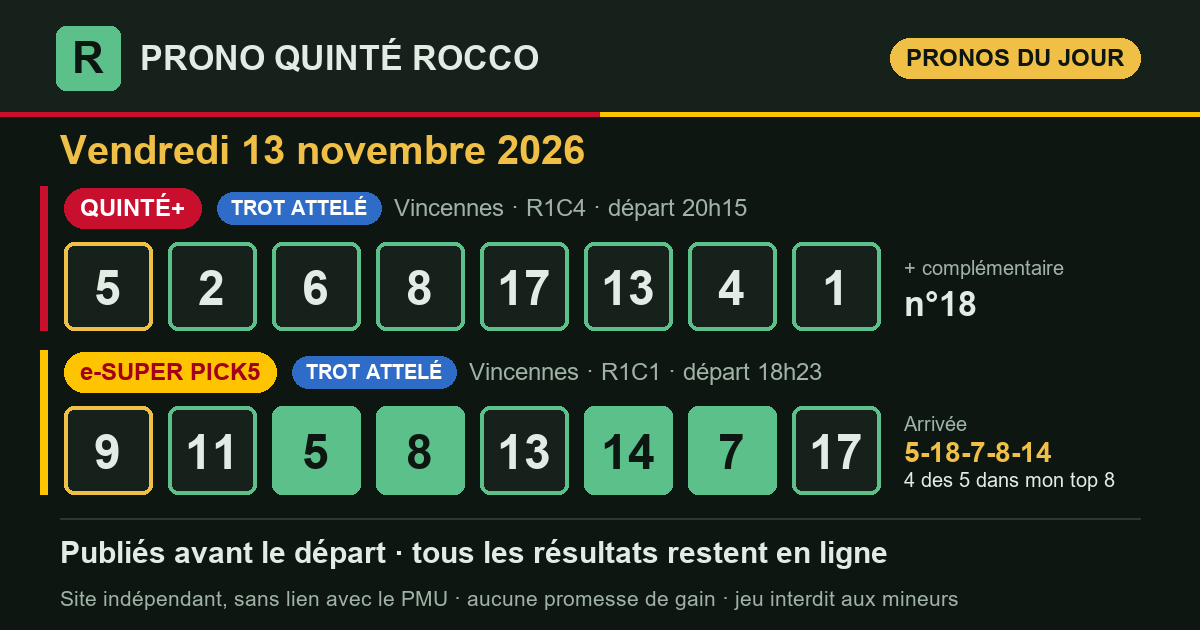
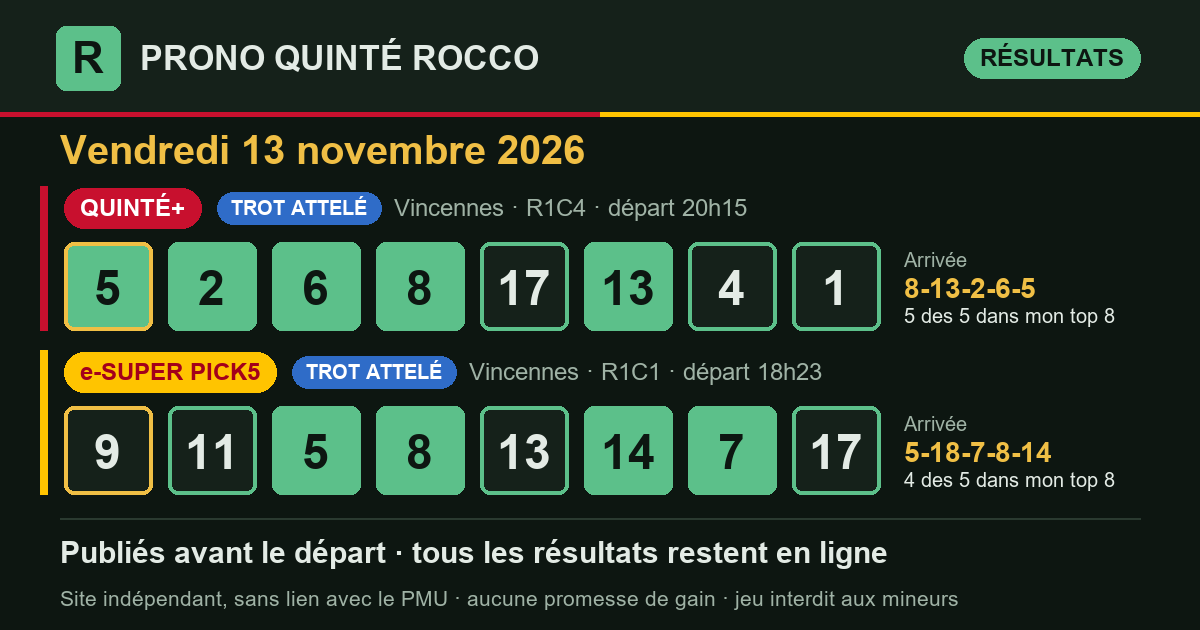
Résultat du Quinté+ 2026-11-13 Vincennes R1C4 — publié le 13/11/2026 20:31 (heure de Paris)

diff --git a/index.html b/index.html
@@ -16,7 +16,7 @@
 <meta property="og:title" content="Pronostics Quinté+ et Super Pick 5 du vendredi 13 novembre 2026 — Prono Quinté Rocco">
 <meta property="og:description" content="Pronostics Quinté+ (Grand Prix du Vendredi 13 (prix Mizar)) et Super Pick 5 (Prix Campanus) du jour : mes top 8, publiés avant le départ, puis tous les résultats et le rendement réel.">
 <meta property="og:url" content="https://prono-quinte-rocco.fr/">
-<meta property="og:image" content="https://prono-quinte-rocco.fr/partage/jour-2026-11-13.png?v=4745406e">
+<meta property="og:image" content="https://prono-quinte-rocco.fr/partage/jour-2026-11-13.png?v=85c597a8">
 <meta property="og:image:type" content="image/png">
 <meta property="og:image:width" content="1200">
 <meta property="og:image:height" content="630">
@@ -32,7 +32,7 @@
 <div class="jeux j-quinte" role="navigation" aria-label="Choix du jeu"><a class="jeu jeu-quinte actif" href="index.html" aria-current="true">Quinté+</a><a class="jeu jeu-sp5" href="superpick5.html">e-Super Pick5<small>entre 17 h et 19 h</small></a></div>
 <main>
 <section class="une" aria-labelledby="t-jour">
-  <p class="surtitre">Quinté+ du jour</p>
+  <p class="surtitre">Dernier Quinté+</p>
   <h1 id="t-jour">Le prono du Quinté+, résultats compris</h1>
   <p class="chapo">Chaque matin, j'étudie les partants du Quinté+ avec le logiciel que
   j'ai conçu, selon ma propre méthode, qu'une intelligence artificielle m'aide à
@@ -43,10 +43,13 @@
   <p class="meta">Grand Prix du Vendredi 13 (prix Mizar) · Vincennes · <strong>R1C4</strong> · 18 partants · <span class="lisib">lisibilité <span class="note" aria-label="note 2 sur 5" title="lisibilité 2/5 : course ouverte"><i class="on"></i><i class="on"></i><i class=""></i><i class=""></i><i class=""></i></span> 2/5</span></p>
   <div class="zone-prono">
     <h3 class="zone-titre">Mon top 8</h3>
-    <ol class="partants" aria-label="Mon top 8"><li><span class="rang">1<sup>er</sup></span><span class="tapis ">5</span><span class="nom">KING LOOK</span></li><li><span class="rang">2<sup>e</sup></span><span class="tapis ">2</span><span class="nom">KATIA DHELPA</span></li><li><span class="rang">3<sup>e</sup></span><span class="tapis ">6</span><span class="nom">EMINENT KRONOS</span></li><li><span class="rang">4<sup>e</sup></span><span class="tapis ">8</span><span class="nom">SAVASTANO</span></li><li><span class="rang">5<sup>e</sup></span><span class="tapis ">17</span><span class="nom">ELEONORA GRIF</span></li><li><span class="rang">6<sup>e</sup></span><span class="tapis ">13</span><span class="nom">COSMEA</span></li><li><span class="rang">7<sup>e</sup></span><span class="tapis ">4</span><span class="nom">KINGSTON DE BLARY</span></li><li><span class="rang">8<sup>e</sup></span><span class="tapis ">1</span><span class="nom">KAISER DES GRANGES</span></li><li><span class="rang">compl.</span><span class="tapis creux">18</span><span class="nom">PURE STEEL</span></li></ol>
+    <ol class="partants" aria-label="Mon top 8"><li><span class="rang">1<sup>er</sup></span><span class="tapis plein">5</span><span class="nom">KING LOOK</span></li><li><span class="rang">2<sup>e</sup></span><span class="tapis plein">2</span><span class="nom">KATIA DHELPA</span></li><li><span class="rang">3<sup>e</sup></span><span class="tapis plein">6</span><span class="nom">EMINENT KRONOS</span></li><li><span class="rang">4<sup>e</sup></span><span class="tapis plein">8</span><span class="nom">SAVASTANO</span></li><li><span class="rang">5<sup>e</sup></span><span class="tapis ">17</span><span class="nom">ELEONORA GRIF</span></li><li><span class="rang">6<sup>e</sup></span><span class="tapis plein">13</span><span class="nom">COSMEA</span></li><li><span class="rang">7<sup>e</sup></span><span class="tapis ">4</span><span class="nom">KINGSTON DE BLARY</span></li><li><span class="rang">8<sup>e</sup></span><span class="tapis ">1</span><span class="nom">KAISER DES GRANGES</span></li><li><span class="rang">compl.</span><span class="tapis creux">18</span><span class="nom">PURE STEEL</span></li></ol>
     <div class="pied-carte"><span>Analysé le 13/11 à 10:04 · en ligne le 13/11 à 10:05 · départ à 20:15 (heure de Paris)</span><span><a href="quinte/2026-11-13.html">Détail de la course</a></span></div>
   </div>
-  <div class="zone-arrivee attente"><p>L'arrivée officielle s'affichera ici après la course.</p></div>
+  <div class="zone-arrivee">
+    <div class="zone-tete"><h3 class="zone-titre">Arrivée officielle</h3><span class="etat top">5 des 5 premiers dans mon top 8</span><span class="etat non">mon 1er (n°5) : non placé</span></div>
+    <ol class="partants" aria-label="Arrivée officielle"><li><span class="rang">1<sup>er</sup></span><span class="tapis plein">8</span><span class="nom">SAVASTANO</span></li><li><span class="rang">2<sup>e</sup></span><span class="tapis plein">13</span><span class="nom">COSMEA</span></li><li><span class="rang">3<sup>e</sup></span><span class="tapis plein">2</span><span class="nom">KATIA DHELPA</span></li><li><span class="rang">4<sup>e</sup></span><span class="tapis plein">6</span><span class="nom">EMINENT KRONOS</span></li><li><span class="rang">5<sup>e</sup></span><span class="tapis plein">5</span><span class="nom">KING LOOK</span></li></ol>
+  </div>
 </article>
 </section>
 <section class="suivre" aria-label="Suivre et soutenir">
@@ -76,7 +79,7 @@
 </section>
 <section class="bilan" aria-labelledby="t-bilan">
   <h2 id="t-bilan">Mon bilan depuis le 8 septembre 2026</h2>
-  <div class="tableau chiffres"><div class="case"><span class="gros ">72 %</span><span class="lib">des arrivants trouvés dans mon top 8</span><span class="ref">un top 8 tiré au hasard : 51 %</span></div><div class="case"><span class="gros ">88 %</span><span class="lib">des gagnants présents dans mon top 8</span><span class="ref"></span></div><div class="case"><span class="gros ">51 %</span><span class="lib">mon 1er placé</span><span class="ref">sur 65 Quintés</span></div><div class="case"><span class="gros perte">0,94 €</span><span class="lib">rendus pour 1 € joué placé sur mon 1er</span><span class="ref">rapports officiels PMU</span></div><div class="case"><span class="gros perte">0,43 €</span><span class="lib">rendus pour 1 € joué en Quinté+ combiné sur mon top 8</span><span class="ref">56 combinaisons, rapports PMU.fr, sur 65 Quintés</span></div></div>
+  <div class="tableau chiffres"><div class="case"><span class="gros ">73 %</span><span class="lib">des arrivants trouvés dans mon top 8</span><span class="ref">un top 8 tiré au hasard : 51 %</span></div><div class="case"><span class="gros ">88 %</span><span class="lib">des gagnants présents dans mon top 8</span><span class="ref"></span></div><div class="case"><span class="gros ">50 %</span><span class="lib">mon 1er placé</span><span class="ref">sur 66 Quintés</span></div><div class="case"><span class="gros perte">0,92 €</span><span class="lib">rendus pour 1 € joué placé sur mon 1er</span><span class="ref">rapports officiels PMU</span></div><div class="case"><span class="gros perte">0,43 €</span><span class="lib">rendus pour 1 € joué en Quinté+ combiné sur mon top 8</span><span class="ref">56 combinaisons, rapports PMU.fr, sur 66 Quintés</span></div></div>
   <p class="avertissement">Moins de 1 € rendu pour 1 € joué : suivre mon prono à la lettre fait <strong>perdre de l'argent</strong> sur cette période. Il sert à analyser une course, pas à promettre un gain.</p>
 </section>
 </main>

diff --git a/partants.html b/partants.html
@@ -33,92 +33,92 @@
     <p class="fiche-date">Vendredi 13 novembre 2026</p>
     <div class="fiche-rc"><span class="pastille" title="Réunion 1">R1</span><span class="pastille" title="Course 4">C4</span><span class="fiche-nom">Grand Prix du Vendredi 13 (prix Mizar)</span></div>
     <p class="meta"><span class="type t-attele">Trot attelé</span>Vincennes · 2 100 m · 18 partants</p>
-    <p class="fiche-depart">Départ <b>20:15</b> <span>heure de Paris</span></p>
+    <p class="fiche-depart">Départ <b>20:17</b> <span>heure de Paris</span></p>
   </div>
   <p class="surtitre">Les pronostics ailleurs sur le web</p>
-  <div class="liens"><a class="lien-ext" href="https://www.turfoo.fr/programmes-courses/261113/reunion1-vincennes/course4-grand-prix-du-vendredi-13-prix-mizar/pronostics-presse/" rel="noopener" target="_blank"><b>Les pronostics de la presse →</b><span>sur Turfoo (site extérieur)</span></a><a class="lien-ext" href="https://www.geny.com/programme/2026-11-13" rel="noopener" target="_blank"><b>Partants et pronostics →</b><span>programme du jour sur Geny (site extérieur)</span></a></div>
+  <div class="liens"><a class="lien-ext" href="https://www.turfoo.fr/programmes-courses/261113/" rel="noopener" target="_blank"><b>Les pronostics de la presse →</b><span>sur Turfoo (site extérieur)</span></a><a class="lien-ext" href="https://www.geny.com/programme/2026-11-13" rel="noopener" target="_blank"><b>Partants et pronostics →</b><span>programme du jour sur Geny (site extérieur)</span></a></div>
   <div class="liste-boite"><table class="liste-partants">
     <thead><tr><th>N°</th><th>Cheval</th><th class="cote"><span class="long">Cote du matin</span><span class="court">Cote</span></th>
     <th class="ia"><span class="long">Mon prono</span><span class="court">Prono</span></th></tr></thead>
     <tbody><tr>
   <td><span class="tapis petit">1</span></td>
   <td><span class="cheval">KAISER DES GRANGES</span><span class="sous">P.PH. PLOQUIN · Ch. NICOLE</span></td>
-  <td class="cote num">43,0</td>
+  <td class="cote num">55,0</td>
   <td class="ia"><span class="etat place">8<sup>e</sup></span></td>
 </tr><tr>
   <td><span class="tapis petit">2</span></td>
   <td><span class="cheval">KATIA DHELPA</span><span class="sous">B. ROCHARD · C. BUHIGNE</span></td>
-  <td class="cote num">7,1</td>
+  <td class="cote num">7,0</td>
   <td class="ia"><span class="etat place">2<sup>e</sup></span></td>
 </tr><tr>
   <td><span class="tapis petit">3</span></td>
   <td><span class="cheval">KAZY MERITE</span><span class="sous">A. COLLETTE · A. BUISSON</span></td>
-  <td class="cote num">32,0</td>
+  <td class="cote num">38,0</td>
   <td class="ia">—</td>
 </tr><tr>
   <td><span class="tapis petit">4</span></td>
   <td><span class="cheval">KINGSTON DE BLARY</span><span class="sous">D. THOMAIN · CL. THOMAIN</span></td>
-  <td class="cote num">22,0</td>
+  <td class="cote num">21,0</td>
   <td class="ia"><span class="etat place">7<sup>e</sup></span></td>
 </tr><tr>
   <td><span class="tapis petit">5</span></td>
   <td><span class="cheval">KING LOOK</span><span class="sous">THEO DUVALDESTIN · TH. DUVALDESTIN</span></td>
-  <td class="cote num">4,0</td>
+  <td class="cote num">3,6</td>
   <td class="ia"><span class="etat place">1<sup>er</sup></span></td>
 </tr><tr>
   <td><span class="tapis petit">6</span></td>
   <td><span class="cheval">EMINENT KRONOS</span><span class="sous">J. UNTERSTEINER · J. UNTERSTEINER</span></td>
-  <td class="cote num">6,5</td>
+  <td class="cote num">5,9</td>
   <td class="ia"><span class="etat place">3<sup>e</sup></span></td>
 </tr><tr>
   <td><span class="tapis petit">7</span></td>
   <td><span class="cheval">KELLY JANE</span><span class="sous">J. DUBOIS · J. DUBOIS</span></td>
-  <td class="cote num">31,0</td>
+  <td class="cote num">39,0</td>
   <td class="ia">—</td>
 </tr><tr>
   <td><span class="tapis petit">8</span></td>
   <td><span class="cheval">SAVASTANO</span><span class="sous">F. NIVARD · A. KOLGJINI</span></td>
-  <td class="cote num">6,9</td>
+  <td class="cote num">7,0</td>
   <td class="ia"><span class="etat place">4<sup>e</sup></span></td>
 </tr><tr>
   <td><span class="tapis petit">9</span></td>
   <td><span class="cheval">KOOL AND THE GANG</span><span class="sous">N. BAZIRE · V. MARTENS</span></td>
-  <td class="cote num">43,0</td>
+  <td class="cote num">66,0</td>
   <td class="ia">—</td>
 </tr><tr>
   <td><span class="tapis petit">10</span></td>
   <td><span class="cheval">KHARTOUM DE LA FYE</span><span class="sous">M. IONESCU · R. DERIEUX</span></td>
-  <td class="cote num">156,0</td>
+  <td class="cote num">151,0</td>
   <td class="ia">—</td>
 </tr><tr>
   <td><span class="tapis petit">11</span></td>
   <td><span class="cheval">I CAN WIN GARDENIA</span><span class="sous">P.Y. VERVA · J. LORENTZEN</span></td>
-  <td class="cote num">44,0</td>
+  <td class="cote num">50,0</td>
   <td class="ia">—</td>
 </tr><tr>
   <td><span class="tapis petit">12</span></td>
   <td><span class="cheval">QUINTUS TOOMA</span><span class="sous">A. ANDRE · Vitale CIOTOLA</span></td>
-  <td class="cote num">49,0</td>
+  <td class="cote num">65,0</td>
   <td class="ia">—</td>
 </tr><tr>
   <td><span class="tapis petit">13</span></td>
   <td><span class="cheval">COSMEA</span><span class="sous">M. ABRIVARD · W. NIMCZYK</span></td>
-  <td class="cote num">8,6</td>
+  <td class="cote num">9,4</td>
   <td class="ia"><span class="etat place">6<sup>e</sup></span></td>
 </tr><tr>
   <td><span class="tapis petit">14</span></td>
   <td><span class="cheval">KOQUERY DU BUISSON</span><span class="sous">R. LAMY · TH. RAFFEGEAU</span></td>
-  <td class="cote num">117,0</td>
+  <td class="cote num">134,0</td>
   <td class="ia">—</td>
 </tr><tr>
   <td><span class="tapis petit">15</span></td>
   <td><span class="cheval">JUBII VANG</span><span class="sous">G. GELORMINI · CH. ERIKSSON</span></td>
-  <td class="cote num">38,0</td>
+  <td class="cote num">43,0</td>
   <td class="ia">—</td>
 </tr><tr>
   <td><span class="tapis petit">16</span></td>
   <td><span class="cheval">NO TALKING YOU</span><span class="sous">F. OUVRIE · L. CHARBONNEL</span></td>
-  <td class="cote num">94,0</td>
+  <td class="cote num">101,0</td>
   <td class="ia">—</td>
 </tr><tr>
   <td><span class="tapis petit">17</span></td>
@@ -128,12 +128,12 @@
 </tr><tr>
   <td><span class="tapis petit">18</span></td>
   <td><span class="cheval">PURE STEEL</span><span class="sous">A. ABRIVARD · H.E. BONDO</span></td>
-  <td class="cote num">43,0</td>
+  <td class="cote num">41,0</td>
   <td class="ia"><span class="etat place">compl.</span></td>
 </tr></tbody>
   </table></div>
   <p class="meta">La colonne « Mon prono » donne le rang de chaque cheval dans mon top 8, tel qu&#x27;il est publié sur ce site. Sous chaque cheval : driver · entraîneur. Partants et cotes : programme
-  officiel du PMU, lu le 13/11 à 18:39 (heure de Paris). NP = non-partant.</p>
+  officiel du PMU, lu le 13/11 à 20:31 (heure de Paris). NP = non-partant.</p>
 </section>
 </main>
 <footer class="pied">

diff --git a/quinte/2026-11-13.html b/quinte/2026-11-13.html
@@ -16,7 +16,7 @@
 <meta property="og:title" content="Pronostic Quinté+ du vendredi 13 novembre 2026 : Grand Prix du Vendredi 13 (prix Mizar) à Vincennes — Prono Quinté Rocco">
 <meta property="og:description" content="Prono Quinté+ du vendredi 13 novembre 2026 (Grand Prix du Vendredi 13 (prix Mizar), Vincennes) : mon top 8, l&#x27;arrivée officielle et les rapports PMU.fr.">
 <meta property="og:url" content="https://prono-quinte-rocco.fr/quinte/2026-11-13.html">
-<meta property="og:image" content="https://prono-quinte-rocco.fr/partage/2026-11-13.png?v=e86b5a9f">
+<meta property="og:image" content="https://prono-quinte-rocco.fr/partage/2026-11-13.png?v=451be2f3">
 <meta property="og:image:type" content="image/png">
 <meta property="og:image:width" content="1200">
 <meta property="og:image:height" content="630">
@@ -36,15 +36,25 @@
   <h1>Pronostic Quinté+ du vendredi 13 novembre 2026</h1>
   <p class="chapo">Grand Prix du Vendredi 13 (prix Mizar) · Vincennes · R1C4 · Attelé · 18 partants</p>
   <article class="carte-course">
-  <div class="tete"><h2>Mon prono</h2><span class="type t-attele">Trot attelé</span></div>
+  <div class="tete"><h2>Mon prono et l&#x27;arrivée officielle</h2><span class="type t-attele">Trot attelé</span></div>
   <p class="meta">Grand Prix du Vendredi 13 (prix Mizar) · Vincennes · <strong>R1C4</strong> · 18 partants · <span class="lisib">lisibilité <span class="note" aria-label="note 2 sur 5" title="lisibilité 2/5 : course ouverte"><i class="on"></i><i class="on"></i><i class=""></i><i class=""></i><i class=""></i></span> 2/5</span></p>
   <div class="zone-prono">
     <h3 class="zone-titre">Mon top 8</h3>
-    <ol class="partants" aria-label="Mon top 8"><li><span class="rang">1<sup>er</sup></span><span class="tapis ">5</span><span class="nom">KING LOOK</span></li><li><span class="rang">2<sup>e</sup></span><span class="tapis ">2</span><span class="nom">KATIA DHELPA</span></li><li><span class="rang">3<sup>e</sup></span><span class="tapis ">6</span><span class="nom">EMINENT KRONOS</span></li><li><span class="rang">4<sup>e</sup></span><span class="tapis ">8</span><span class="nom">SAVASTANO</span></li><li><span class="rang">5<sup>e</sup></span><span class="tapis ">17</span><span class="nom">ELEONORA GRIF</span></li><li><span class="rang">6<sup>e</sup></span><span class="tapis ">13</span><span class="nom">COSMEA</span></li><li><span class="rang">7<sup>e</sup></span><span class="tapis ">4</span><span class="nom">KINGSTON DE BLARY</span></li><li><span class="rang">8<sup>e</sup></span><span class="tapis ">1</span><span class="nom">KAISER DES GRANGES</span></li><li><span class="rang">compl.</span><span class="tapis creux">18</span><span class="nom">PURE STEEL</span></li></ol>
+    <ol class="partants" aria-label="Mon top 8"><li><span class="rang">1<sup>er</sup></span><span class="tapis plein">5</span><span class="nom">KING LOOK</span></li><li><span class="rang">2<sup>e</sup></span><span class="tapis plein">2</span><span class="nom">KATIA DHELPA</span></li><li><span class="rang">3<sup>e</sup></span><span class="tapis plein">6</span><span class="nom">EMINENT KRONOS</span></li><li><span class="rang">4<sup>e</sup></span><span class="tapis plein">8</span><span class="nom">SAVASTANO</span></li><li><span class="rang">5<sup>e</sup></span><span class="tapis ">17</span><span class="nom">ELEONORA GRIF</span></li><li><span class="rang">6<sup>e</sup></span><span class="tapis plein">13</span><span class="nom">COSMEA</span></li><li><span class="rang">7<sup>e</sup></span><span class="tapis ">4</span><span class="nom">KINGSTON DE BLARY</span></li><li><span class="rang">8<sup>e</sup></span><span class="tapis ">1</span><span class="nom">KAISER DES GRANGES</span></li><li><span class="rang">compl.</span><span class="tapis creux">18</span><span class="nom">PURE STEEL</span></li></ol>
     <div class="pied-carte"><span>Analysé le 13/11 à 10:04 · en ligne le 13/11 à 10:05 · départ à 20:15 (heure de Paris)</span><span></span></div>
   </div>
-  <div class="zone-arrivee attente"><p>L'arrivée officielle s'affichera ici après la course.</p></div>
+  <div class="zone-arrivee">
+    <div class="zone-tete"><h3 class="zone-titre">Arrivée officielle</h3><span class="etat top">5 des 5 premiers dans mon top 8</span><span class="etat non">mon 1er (n°5) : non placé</span></div>
+    <ol class="partants" aria-label="Arrivée officielle"><li><span class="rang">1<sup>er</sup></span><span class="tapis plein">8</span><span class="nom">SAVASTANO</span></li><li><span class="rang">2<sup>e</sup></span><span class="tapis plein">13</span><span class="nom">COSMEA</span></li><li><span class="rang">3<sup>e</sup></span><span class="tapis plein">2</span><span class="nom">KATIA DHELPA</span></li><li><span class="rang">4<sup>e</sup></span><span class="tapis plein">6</span><span class="nom">EMINENT KRONOS</span></li><li><span class="rang">5<sup>e</sup></span><span class="tapis plein">5</span><span class="nom">KING LOOK</span></li></ol>
+  </div>
 </article>
+<section class="carte-course rapports" aria-labelledby="t-rap">
+  <div class="tete"><h2 id="t-rap">Les rapports</h2></div>
+  <div class="deux">
+    <div><h3>Ce qu'aurait rendu mon prono</h3><dl class="kv"><dt>1 € placé sur mon 1er (n°5)</dt><dd class="perte">0,00 €</dd><dt>1 € gagnant sur mon 1er</dt><dd class="perte">0,00 €</dd><dt>Quinté+ combiné sur mon top 8 (mise 112 €)</dt><dd class="partiel"><span class="etat partiel somme">46,40 €</span></dd><dd class="dont">dont Désordre × 1, Bonus 4sur5 × 15, Bonus 3 × 3</dd></dl></div>
+    <div><h3>Rapports officiels</h3><dl class="kv"><dt>e-Quinté+ Ordre (2 €)</dt><dd>831,60 €</dd><dt>e-Quinté+ Désordre (2 €)</dt><dd>6,80 €</dd><dt>e-Bonus 4sur5 (2 €)</dt><dd>2,20 €</dd><dt>e-Bonus 3 (2 €)</dt><dd>2,20 €</dd></dl></div>
+  </div>
+</section>
 </section>
 </main>
 <footer class="pied">

diff --git a/resultats.html b/resultats.html
@@ -49,12 +49,12 @@
     <th colspan="4" class="res g-res">Le résultat officiel</th></tr>
     <tr><th>Date</th><th>Course</th><th>Top 8</th><th class="c-lis">Lisibilité</th><th class="res c-arr">Arrivée</th>
     <th class="res">Trouvés</th><th class="res">Mon 1er</th><th class="res mont">Quinté+ top 8<br><small>(mise 112 €)</small></th></tr></thead>
-    <tbody><tr class="attente">
+    <tbody><tr>
   <td class="c-date"><a href="quinte/2026-11-13.html">13/11</a></td>
   <td class="c-course">Vincennes<br><span class="meta">R1C4</span><span class="type t-attele petit">Attelé</span></td>
-  <td class="c-top8" data-label="Mon top 8"><div class="rangee"><span class="tapis petit">5</span><span class="tapis petit">2</span><span class="tapis petit">6</span><span class="tapis petit">8</span><span class="tapis petit">17</span><span class="tapis petit">13</span><span class="tapis petit">4</span><span class="tapis petit">1</span></div></td>
+  <td class="c-top8" data-label="Mon top 8"><div class="rangee"><span class="tapis plein petit">5</span><span class="tapis plein petit">2</span><span class="tapis plein petit">6</span><span class="tapis plein petit">8</span><span class="tapis petit">17</span><span class="tapis plein petit">13</span><span class="tapis petit">4</span><span class="tapis petit">1</span></div></td>
   <td class="c-lis" data-label="Lisibilité"><span class="note" aria-label="note 2 sur 5" title="lisibilité 2/5 : course ouverte"><i class="on"></i><i class="on"></i><i class=""></i><i class=""></i><i class=""></i></span> 2/5</td>
-  <td class="res c-arr" data-label="Arrivée"><span class="etat attente">en attente</span></td><td class="res num c-trouves" data-label="Trouvés">—</td><td class="res c-premier" data-label="Mon 1er"><span class="etat attente">—</span></td><td class="res mont c-mont" data-label="Quinté+ top 8 (mise 112 €)">—</td>
+  <td class="res c-arr" data-label="Arrivée"><div class="rangee"><span class="tapis plein petit" title="1er">8</span><span class="tapis plein petit" title="2e">13</span><span class="tapis plein petit" title="3e">2</span><span class="tapis plein petit" title="4e">6</span><span class="tapis plein petit" title="5e">5</span></div></td><td class="res num c-trouves" data-label="Trouvés"><span class="etat top" title="les 5 premiers sont dans mon top 8">5/5</span></td><td class="res c-premier" data-label="Mon 1er"><span class="etat non">non placé</span></td><td class="res mont c-mont partiel" data-label="Quinté+ top 8 (mise 112 €)" title="perte nette : 65,60 €"><span class="etat partiel somme">46,40 €</span></td>
 </tr><tr>
   <td class="c-date"><a href="quinte/2026-11-12.html">12/11</a></td>
   <td class="c-course">Vincennes<br><span class="meta">R1C1</span><span class="type t-attele petit">Attelé</span></td>
@@ -450,7 +450,7 @@
 </section>
 <section class="bilan" aria-labelledby="t-bilan">
   <h2 id="t-bilan">Mon bilan depuis le 8 septembre 2026</h2>
-  <div class="tableau chiffres"><div class="case"><span class="gros ">72 %</span><span class="lib">des arrivants trouvés dans mon top 8</span><span class="ref">un top 8 tiré au hasard : 51 %</span></div><div class="case"><span class="gros ">88 %</span><span class="lib">des gagnants présents dans mon top 8</span><span class="ref"></span></div><div class="case"><span class="gros ">51 %</span><span class="lib">mon 1er placé</span><span class="ref">sur 65 Quintés</span></div><div class="case"><span class="gros perte">0,94 €</span><span class="lib">rendus pour 1 € joué placé sur mon 1er</span><span class="ref">rapports officiels PMU</span></div><div class="case"><span class="gros perte">0,43 €</span><span class="lib">rendus pour 1 € joué en Quinté+ combiné sur mon top 8</span><span class="ref">56 combinaisons, rapports PMU.fr, sur 65 Quintés</span></div></div>
+  <div class="tableau chiffres"><div class="case"><span class="gros ">73 %</span><span class="lib">des arrivants trouvés dans mon top 8</span><span class="ref">un top 8 tiré au hasard : 51 %</span></div><div class="case"><span class="gros ">88 %</span><span class="lib">des gagnants présents dans mon top 8</span><span class="ref"></span></div><div class="case"><span class="gros ">50 %</span><span class="lib">mon 1er placé</span><span class="ref">sur 66 Quintés</span></div><div class="case"><span class="gros perte">0,92 €</span><span class="lib">rendus pour 1 € joué placé sur mon 1er</span><span class="ref">rapports officiels PMU</span></div><div class="case"><span class="gros perte">0,43 €</span><span class="lib">rendus pour 1 € joué en Quinté+ combiné sur mon top 8</span><span class="ref">56 combinaisons, rapports PMU.fr, sur 66 Quintés</span></div></div>
   <p class="avertissement">Moins de 1 € rendu pour 1 € joué : suivre mon prono à la lettre fait <strong>perdre de l'argent</strong> sur cette période. Il sert à analyser une course, pas à promettre un gain.</p>
 </section>
 </main>

diff --git a/superpick5-partants.html b/superpick5-partants.html
@@ -108,7 +108,7 @@
 </tr></tbody>
   </table></div>
   <p class="meta">Mon prono de cette course sera publié le matin de la course, avant le départ. Sous chaque cheval : driver · entraîneur. Partants et cotes : programme
-  officiel du PMU, lu le 13/11 à 18:39 (heure de Paris). NP = non-partant.</p>
+  officiel du PMU, lu le 13/11 à 20:31 (heure de Paris). NP = non-partant.</p>
 </section>
 </main>
 <footer class="pied">
